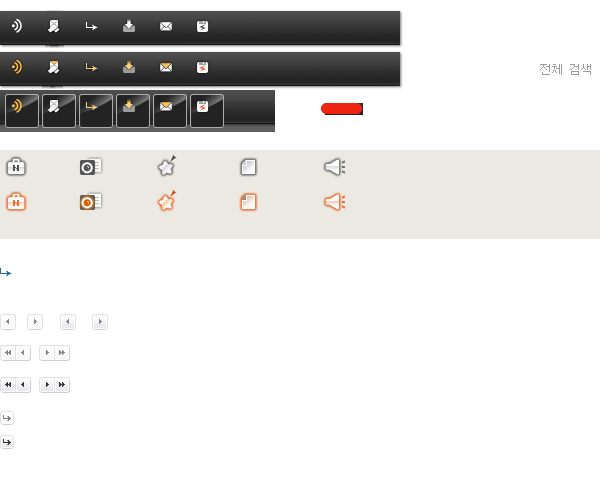
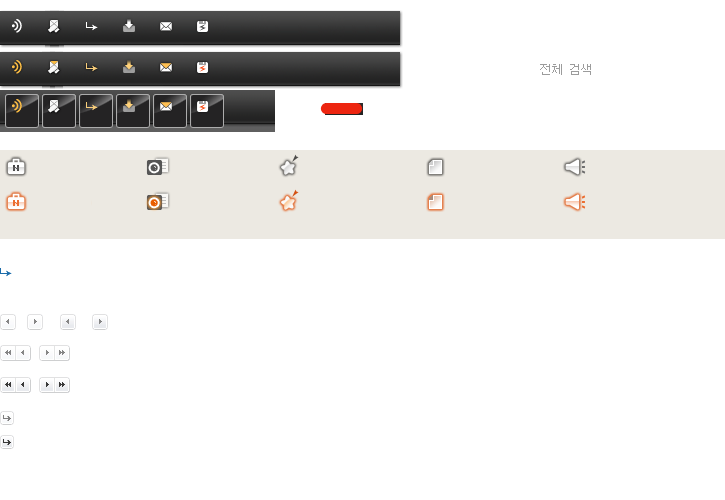
css,jsp

diff --git a/WebContent/css/layout.css b/WebContent/css/layout.css
@@ -97,12 +97,14 @@ body, #nav {background: url("../images/bg_body.jpg");}
     border-color: #919191;
     border-style: solid;
     border-width: 1px;
-	/* width:203px; */
 	height:16px;
 	}
-.srch .input {width:155px; background-color: #919191; color: #E4E4E4;}
-.srch input::-webkit-input-placeholder {color:#E4E4E4;}
-.srch input:-moz-placeholder {color:#E4E4E4;}
+	
+.srch .nav_input {width:155px; background-color: #919191; color: #E4E4E4;}
+.nav_srch .srch input::-webkit-input-placeholder {color:#E4E4E4;}
+.nav_srch .srch input:-moz-placeholder {color:#E4E4E4;}
+.global_srch .srch input::-webkit-input-placeholder {color:#E4E4E4;}
+.global_srch .srch input:-moz-placeholder {color:#E4E4E4;}
 
 .srch button, .srch .srch_ico {background-color:#FFFFFF; background:url("../images/btn_srch.gif") no-repeat 0 0 transparent; border:0 none; cursor:pointer;  height:13px;
 	width:13px; right:2px; padding:0; position:relative; float: right; top:1px;}
@@ -145,7 +147,7 @@ body, #nav {background: url("../images/bg_body.jpg");}
 .ico_pe {height:20px; padding:0 5px 0 0; display: inline-block; float:left;}
 
 
-.navi_tit {background: url("../images/naviti_bg.jpg") repeat-x scroll 0 0; width:205px; height:39px; padding:7px 10px 10px;}
+.navi_tit {background: url("../images/naviti_bg.jpg") repeat-x scroll 0 0; width:206px; height:39px; padding:7px 10px 10px;}
 .navi_list {border:2px solid #363636; border-top:none; min-height: 300px;}
 .navi_tit_mail {background: url("../images/naviti_mail_bg.jpg") repeat-x scroll 0 0; width:206px; padding:5px 10px 0;}
 .navi_tit_chat {background-color:#363636; border-top:1px solid #969696; width:205px; padding:10px}
@@ -199,35 +201,30 @@ body, #nav {background: url("../images/bg_body.jpg");}
 
 
 /* upload Icon */
-.up_works a {background: url("../images/header_nico.png") no-repeat -4px -155px; width:39px; height:22px; padding:4px 0 3px 26px; display:block;}
+.up_works a {background: url("../images/header_nico.png") no-repeat -4px -155px; height:22px; padding:4px 0 3px 26px; display:block;}
 .up_works a:hover,
 .up_works .current, 
-.up_works a.current:hover 
-{background: url("../images/header_nico.png") no-repeat -4px -190px; height:22px; padding:4px 0 3px 26px; display:block; font-weight:bold;}
+.up_works a.current:hover {background: url("../images/header_nico.png") no-repeat -4px -190px; font-weight:bold;}
 
-.up_file a {background: url("../images/header_nico.png") no-repeat -78px -155px; width:26px; height:22px; padding:4px 0 3px 28px; display:block;}
+.up_file a {background: url("../images/header_nico.png") no-repeat -146px -155px; height:22px; padding:4px 0 3px 28px; display:block;}
 .up_file a:hover,
 .up_file .current, 
-.up_file a.current:hover 
-{background: url("../images/header_nico.png") no-repeat -78px -190px; height:22px; padding:4px 0 3px 28px; display:block; font-weight:bold;}
+.up_file a.current:hover {background: url("../images/header_nico.png") no-repeat -146px -190px; font-weight:bold;}
 
-.up_event a {background: url("../images/header_nico.png") no-repeat -156px -155px; width:39px; height:22px; padding:4px 0 3px 22px; display:block;}
+.up_event a {background: url("../images/header_nico.png") no-repeat -279px -155px; height:22px; padding:4px 0 3px 22px; display:block;}
 .up_event a:hover,
 .up_event .current, 
-.up_event a.current:hover
-{background: url("../images/header_nico.png") no-repeat -156px -190px; height:22px; padding:4px 0 3px 22px; display:block; font-weight:bold;}
+.up_event a.current:hover {background: url("../images/header_nico.png") no-repeat -279px -190px; font-weight:bold;}
 
-.up_memo a {background: url("../images/header_nico.png") no-repeat -238px -155px; width:26px; height:22px; padding:4px 0 3px 23px; display:block;}
+.up_memo a {background: url("../images/header_nico.png") no-repeat -425px -155px; height:22px; padding:4px 0 3px 23px; display:block;}
 .up_memo a:hover,
 .up_memo .current, 
-.up_memo a.current:hover
-{background: url("../images/header_nico.png") no-repeat -238px -190px; height:22px; padding:4px 0 3px 23px; display:block; font-weight:bold;}
+.up_memo a.current:hover {background: url("../images/header_nico.png") no-repeat -425px -190px; font-weight:bold;}
 
-.up_board a {background: url("../images/header_nico.png") no-repeat -322px -155px; height:22px; padding:4px 0 3px 28px; display:block;}
+.up_board a {background: url("../images/header_nico.png") no-repeat -563px -155px; height:22px; padding:4px 0 3px 28px; display:block;}
 .up_board a:hover,
 .up_board .current, 
-.up_board a.current:hover 
-{background: url("../images/header_nico.png") no-repeat -322px -190px; height:22px; padding:4px 0 3px 28px; display:block; font-weight:bold;}
+.up_board a.current:hover {background: url("../images/header_nico.png") no-repeat -563px -190px; font-weight:bold;}
 
 .up {border:1px solid #c7c7c7; padding:3px 0; background: none repeat scroll 0 0 #FFFFFF; vertical-align:middle;} /* 높이가 있는 라인박스 쓸때 */
 .fieldline {border:1px solid #c7c7c7; left:0px; background: none repeat scroll 0 0 #FFFFFF; vertical-align:middle; text-align:left; width:100%;} /* 한줄 input, text박스 쓸때 */
